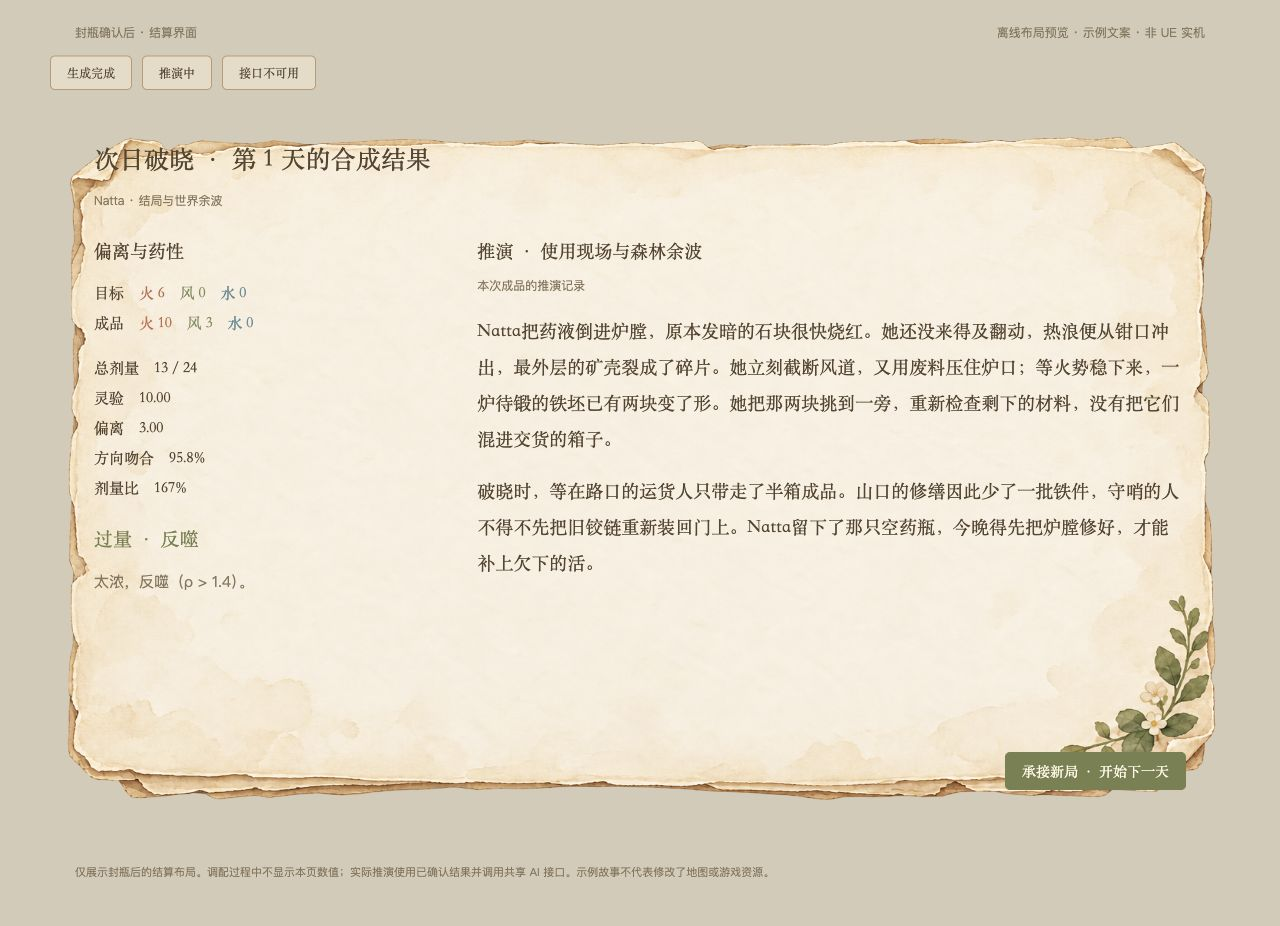
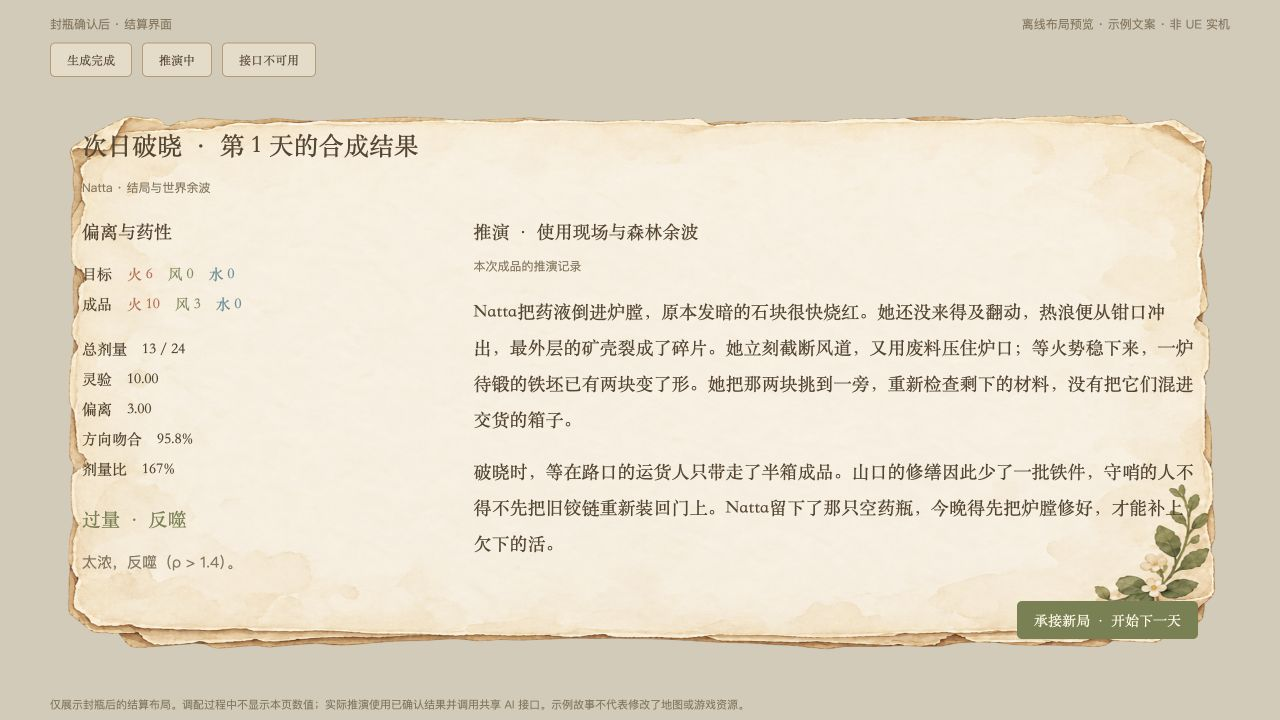
fix: reflow alchemy panels within available viewport

diff --git a/Docs/Daily_Arcana_Brewing_Preview.html b/Docs/Daily_Arcana_Brewing_Preview.html
@@ -1,3 +1,6 @@
 <!doctype html><html lang="zh-CN"><meta charset="utf-8"><meta name="viewport" content="width=device-width,initial-scale=1"><title>今日大牌与夜间合成台</title><style>
 *{box-sizing:border-box}body{margin:0;padding:26px;background:#d5cbb8;color:#57452f;font:15px "Songti SC",serif}main{width:1180px;max-width:100%;margin:auto}.note{font:12px sans-serif;color:#87765b;display:flex;justify-content:space-between;margin:0 25px 15px}.paper{background:url('../Content/UI/Textures/WoodlandPaper.png') center/100% 100%;padding:36px 48px 55px;position:relative}.bag{width:940px;max-width:100%;margin:auto}.title{display:flex;align-items:center;justify-content:space-between}h1{font-size:24px;font-weight:400;margin:0 0 14px}h2{font-size:18px;font-weight:400;margin:0 0 12px}.muted,small{font:12px sans-serif;color:#87765b;line-height:1.8}.btn,button{font:14px "Songti SC",serif;color:#57452f;background:#f4e8d188;border:1px solid #ba9b70;border-radius:5px;padding:8px 16px;cursor:pointer}.primary,.active{background:#77804d;color:#fff7e5;border-color:#77804d}.tabs{display:flex;gap:10px;margin:4px 0 20px}.bagbody{display:grid;grid-template-columns:minmax(0,58fr) minmax(0,42fr);min-height:0;gap:20px;flex:1}.cards{display:flex;gap:10px;align-items:flex-start}.major{width:110px;min-height:160px;padding:12px 8px;text-align:center;border:1px solid #ba9b70;border-radius:6px;background:#f4e8d177}.major.selected{background:#dfe5c888;border-color:#77804d}.major .roman{font-size:28px;color:#77804d;display:block;margin:4px 0 14px}.major b{font-size:17px;font-weight:400;display:block;margin-bottom:9px}.major p{font-size:12px;margin:8px 0;line-height:1.5}.detail{padding:8px 22px;border-left:1px solid #ba9b7044}.detail h2{font-size:25px}.detail p{line-height:1.9}.legend{margin:28px 25px 12px;font:12px sans-serif;color:#87765b}.brew{width:1180px;min-height:730px}.brew .title{margin-bottom:0}.topline{display:flex;gap:10px;margin:14px 0}.rail{display:flex;gap:8px;margin:16px 0 12px;overflow:auto}.slot{width:154px;min-height:120px;border:1px solid #ba9b70;border-radius:5px;padding:10px;background:#f4e8d188;flex-shrink:0}.slot small{display:block;font-size:10px}.slot strong{display:block;font-size:16px;font-weight:400;margin:13px 0 8px}.slot.selected{border-color:#77804d;background:#dfe5c888}.tools{display:flex;gap:8px}.tools button{font-size:12px;padding:6px 14px}.columns{display:grid;grid-template-columns:32% 35% 33%;margin:20px 0;min-height:280px}.column{padding:0 18px 0 0}.column+.column{padding-left:18px;border-left:1px solid #ba9b7044}.choice{width:100%;text-align:left;margin:0 0 8px;line-height:1.5;font-size:13px;padding:9px 12px}.choice small{display:block;font-size:11px}.out p{font-size:13px;line-height:1.9;margin:8px 0}.values{display:flex;gap:14px;margin:12px 0;font-size:17px}.fire{color:#be6c4e}.wind{color:#7d8c58}.water{color:#688e97}.foot{display:flex;gap:12px;align-items:center}.foot small{margin-right:auto}.caption{font:11px sans-serif;line-height:1.8;color:#87765b;margin:20px 25px}.scale{overflow:hidden;position:relative;margin:auto}.scale .paper{position:absolute;top:0;left:0;max-width:none;transform-origin:top left}.bag{height:480px;display:flex;flex-direction:column}.brew{height:780px;display:flex;flex-direction:column}.brew .columns{flex:1;min-height:0}.column{overflow:auto}.brew .rail{min-height:124px}.foot{flex-shrink:0}.badge{background:#e9d9b966;border:1px solid #ba9b7066;padding:5px 12px;border-radius:5px;font-size:12px}
-</style><main><header class="note"><span>背包 · 新增今日大牌栏</span><span>离线布局预览 · 非 UE 实机</span></header><section class="paper bag"><div class="title"><h1>背包</h1><small>B / Esc 关闭</small></div><div class="tabs"><button>元素小物</button><button class="active">今日大牌 · 第1天（3）</button></div><div class="bagbody"><div class="cards"><article class="major selected"><span class="roman">IV</span><b>皇帝</b><p>火 ×2</p><small>额度 1</small></article><article class="major"><span class="roman">XV</span><b>恶魔</b><p>下一项取逆</p><small>额度 1</small></article><article class="major"><span class="roman">XVII</span><b>星</b><p>风 ×2</p><small>额度 1</small></article></div><div class="detail"><h2>IV · 皇帝</h2><div class="muted">今日大牌 · 第1天<br>额度开销：1</div><p>火轴 ×2，逆运算时为 ÷2。</p><p class="muted">只在今日可用。夜晚放入合成台，按排列顺序改变药性。</p></div></div><small>拿起小屋药瓶，每瓶每天可抽取一张大牌。抽牌不经过 AI。</small></section><div class="legend">夜间合成台 · 素材、大牌、调配顺序、委托与结果 · 不显示三维坐标轴</div><section class="paper brew"><div class="title"><h1>夜间合成台 · 第1天</h1><span class="badge">今晚额度　4 / 5</span></div><div class="muted">元素小物相加 · 大牌按顺序变换药性 · 副锅独立调配</div><div class="topline"><button class="primary">Natta · 铁匠</button><button>Fawnia · 传信人</button><button>森林女巫 · 小说家</button></div><div class="rail"><div class="slot"><small>01 · 元素小物</small><strong>炉火纽扣 · 火5</strong><small>投入火元素 5 点 · 免费</small></div><div class="slot selected"><small>02 · 今日大牌</small><strong>IV · 皇帝</strong><small>火 ×2 · 额度 1</small></div><div class="slot"><small>03 · 元素小物</small><strong>没有舌头的铜铃 · 风3</strong><small>投入风元素 3 点 · 免费</small></div></div><div class="tools"><button>← 前移</button><button>后移 →</button><button>移除所选</button><button>清空</button></div><div class="columns"><section class="column"><h2>元素小物 · 来自背包</h2><button class="choice">炉火纽扣 · 火5<small>黄铜边缘始终温热 · 额度0</small></button><button class="choice">没有舌头的铜铃 · 风3<small>风经过时会响起铃音 · 额度0</small></button><button class="choice">装着小雨的瓶子 · 水6<small>瓶壁上滑过刚落下的雨 · 额度0</small></button></section><section class="column"><h2>今日大牌 · 来自药瓶</h2><button class="choice">IV · 皇帝　额度1<small>火轴 ×2，逆为 ÷2</small></button><button class="choice">XV · 恶魔　额度1<small>紧邻的下一项取逆运算</small></button><button class="choice">XVII · 星　额度1<small>风轴 ×2，逆为 ÷2</small></button><div class="muted">下方保留原型的四张通用修饰牌</div></section><section class="column out"><h2>今晚的委托</h2><p>“我要的东西能把那种冷石头喂熟。就要火。别的什么都不要。”</p><p class="muted">目标：火6 · 风0 · 水0<br>调配槽位：3</p><p class="muted">确认封瓶后，另页显示偏离结果与次日推演。</p></section></div><footer class="foot"><small>放入、移除和调序不扣料；封瓶会另做一次确认。</small><button>收起 · Esc</button><button class="primary">封瓶交付</button></footer></section><p class="caption">截图展示两个界面的示例状态，人物、卡牌和数值仅供排版查看，不是游戏存档或运行验收。实际界面由 Slate 实现，均会按可用窗口尺寸缩小。<br>大牌保留卡牌形态；牌面插画尚未加入。夜间面板由与坩埚交互进入，本批未修改天空光照或新增真实时间计时。</p></main><script>for(const p of document.querySelectorAll('.paper')){let h=document.createElement('div');h.className='scale';h.style.maxWidth=(p.classList.contains('bag')?940:1180)+'px';p.before(h);h.append(p)}function fit(){for(const h of document.querySelectorAll('.scale')){const p=h.firstChild,w=p.classList.contains('bag')?940:1180,d=p.classList.contains('bag')?480:780,s=Math.min(1,h.clientWidth/w);p.style.transform='scale('+s+')';h.style.height=d*s+'px'}}new ResizeObserver(fit).observe(document.querySelector('main'));addEventListener('resize',fit);fit()</script></html>
+
+main{width:100%;max-width:1180px}.paper.brew{width:100%;max-width:1180px;height:min(780px,calc(100dvh - 48px));min-height:0;padding:28px 32px}.brew .topline,.brew .tools,.brew .foot{flex-wrap:wrap}.brew .columns{grid-template-columns:minmax(0,32fr) minmax(0,35fr) minmax(0,33fr)}.brew .column{min-width:0}.brew .rail{flex-shrink:0}.brew .title{gap:12px;flex-wrap:wrap}.brew .foot{flex-shrink:0}.brew .title h1{font-size:22px}.brew .foot small{flex-basis:100%}.brew .columns{overflow:auto}.brew .column{overflow:visible}.brew .topline{flex-shrink:0}.brew .tools{flex-shrink:0}
+@media(max-width:931px){.paper.brew{padding:16px 18px}.brew .columns{display:block}.brew .column{border:0;padding:0;margin:0 0 18px}.brew .columns .out{order:-1}.brew .title h1{font-size:18px}}
+.brew-scroll{flex:1;min-height:0;overflow:auto}.brew .columns{flex:none;overflow:visible}.brew .foot{margin-top:10px}</style><main><header class="note"><span>背包 · 新增今日大牌栏</span><span>离线布局预览 · 非 UE 实机</span></header><section class="paper bag"><div class="title"><h1>背包</h1><small>B / Esc 关闭</small></div><div class="tabs"><button>元素小物</button><button class="active">今日大牌 · 第1天（3）</button></div><div class="bagbody"><div class="cards"><article class="major selected"><span class="roman">IV</span><b>皇帝</b><p>火 ×2</p><small>额度 1</small></article><article class="major"><span class="roman">XV</span><b>恶魔</b><p>下一项取逆</p><small>额度 1</small></article><article class="major"><span class="roman">XVII</span><b>星</b><p>风 ×2</p><small>额度 1</small></article></div><div class="detail"><h2>IV · 皇帝</h2><div class="muted">今日大牌 · 第1天<br>额度开销：1</div><p>火轴 ×2，逆运算时为 ÷2。</p><p class="muted">只在今日可用。夜晚放入合成台，按排列顺序改变药性。</p></div></div><small>拿起小屋药瓶，每瓶每天可抽取一张大牌。抽牌不经过 AI。</small></section><div class="legend">夜间合成台 · 素材、大牌、调配顺序、委托与结果 · 不显示三维坐标轴</div><section class="paper brew"><div class="title"><h1>夜间合成台 · 第1天</h1><span class="badge">今晚额度　4 / 5</span></div><div class="brew-scroll"><div class="muted">元素小物相加 · 大牌按顺序变换药性 · 副锅独立调配</div><div class="topline"><button class="primary">Natta · 铁匠</button><button>Fawnia · 传信人</button><button>森林女巫 · 小说家</button></div><div class="rail"><div class="slot"><small>01 · 元素小物</small><strong>炉火纽扣 · 火5</strong><small>投入火元素 5 点 · 免费</small></div><div class="slot selected"><small>02 · 今日大牌</small><strong>IV · 皇帝</strong><small>火 ×2 · 额度 1</small></div><div class="slot"><small>03 · 元素小物</small><strong>没有舌头的铜铃 · 风3</strong><small>投入风元素 3 点 · 免费</small></div></div><div class="tools"><button>← 前移</button><button>后移 →</button><button>移除所选</button><button>清空</button></div><div class="columns"><section class="column"><h2>元素小物 · 来自背包</h2><button class="choice">炉火纽扣 · 火5<small>黄铜边缘始终温热 · 额度0</small></button><button class="choice">没有舌头的铜铃 · 风3<small>风经过时会响起铃音 · 额度0</small></button><button class="choice">装着小雨的瓶子 · 水6<small>瓶壁上滑过刚落下的雨 · 额度0</small></button></section><section class="column"><h2>今日大牌 · 来自药瓶</h2><button class="choice">IV · 皇帝　额度1<small>火轴 ×2，逆为 ÷2</small></button><button class="choice">XV · 恶魔　额度1<small>紧邻的下一项取逆运算</small></button><button class="choice">XVII · 星　额度1<small>风轴 ×2，逆为 ÷2</small></button><div class="muted">下方保留原型的四张通用修饰牌</div></section><section class="column out"><h2>今晚的委托</h2><p>“我要的东西能把那种冷石头喂熟。就要火。别的什么都不要。”</p><p class="muted">目标：火6 · 风0 · 水0<br>调配槽位：3</p><p class="muted">确认封瓶后，另页显示偏离结果与次日推演。</p></section></div></div><footer class="foot"><small>放入、移除和调序不扣料；封瓶会另做一次确认。</small><button>收起 · Esc</button><button class="primary">封瓶交付</button></footer></section><p class="caption">截图展示两个界面的示例状态，人物、卡牌和数值仅供排版查看，不是游戏存档或运行验收。实际界面由 Slate 实现，均会按可用窗口尺寸缩小。<br>大牌保留卡牌形态；牌面插画尚未加入。夜间面板由与坩埚交互进入，本批未修改天空光照或新增真实时间计时。</p></main><script>for(const p of document.querySelectorAll('.paper.bag')){let h=document.createElement('div');h.className='scale';h.style.maxWidth=(p.classList.contains('bag')?940:1180)+'px';p.before(h);h.append(p)}function fit(){for(const h of document.querySelectorAll('.scale')){const p=h.firstChild,w=p.classList.contains('bag')?940:1180,d=p.classList.contains('bag')?480:780,s=Math.min(1,h.clientWidth/w);p.style.transform='scale('+s+')';h.style.height=d*s+'px'}}new ResizeObserver(fit).observe(document.querySelector('main'));addEventListener('resize',fit);fit()</script></html>

diff --git a/Docs/Brew_Result_Preview.html b/Docs/Brew_Result_Preview.html
@@ -2,4 +2,8 @@
 *{box-sizing:border-box}body{margin:0;padding:26px;background:#d5cbb8;color:#57452f;font:15px "Songti SC",serif}main{width:1180px;max-width:100%;margin:auto}.note{font:12px sans-serif;color:#87765b;display:flex;justify-content:space-between;margin:0 25px 15px}.paper{background:url('../Content/UI/Textures/WoodlandPaper.png') center/100% 100%;padding:36px 48px 55px;position:relative}.bag{width:940px;max-width:100%;margin:auto}.title{display:flex;align-items:center;justify-content:space-between}h1{font-size:24px;font-weight:400;margin:0 0 14px}h2{font-size:18px;font-weight:400;margin:0 0 12px}.muted,small{font:12px sans-serif;color:#87765b;line-height:1.8}.btn,button{font:14px "Songti SC",serif;color:#57452f;background:#f4e8d188;border:1px solid #ba9b70;border-radius:5px;padding:8px 16px;cursor:pointer}.primary,.active{background:#77804d;color:#fff7e5;border-color:#77804d}.tabs{display:flex;gap:10px;margin:4px 0 20px}.bagbody{display:grid;grid-template-columns:minmax(0,58fr) minmax(0,42fr);min-height:0;gap:20px;flex:1}.cards{display:flex;gap:10px;align-items:flex-start}.major{width:110px;min-height:160px;padding:12px 8px;text-align:center;border:1px solid #ba9b70;border-radius:6px;background:#f4e8d177}.major.selected{background:#dfe5c888;border-color:#77804d}.major .roman{font-size:28px;color:#77804d;display:block;margin:4px 0 14px}.major b{font-size:17px;font-weight:400;display:block;margin-bottom:9px}.major p{font-size:12px;margin:8px 0;line-height:1.5}.detail{padding:8px 22px;border-left:1px solid #ba9b7044}.detail h2{font-size:25px}.detail p{line-height:1.9}.legend{margin:28px 25px 12px;font:12px sans-serif;color:#87765b}.brew{width:1180px;min-height:730px}.brew .title{margin-bottom:0}.topline{display:flex;gap:10px;margin:14px 0}.rail{display:flex;gap:8px;margin:16px 0 12px;overflow:auto}.slot{width:154px;min-height:120px;border:1px solid #ba9b70;border-radius:5px;padding:10px;background:#f4e8d188;flex-shrink:0}.slot small{display:block;font-size:10px}.slot strong{display:block;font-size:16px;font-weight:400;margin:13px 0 8px}.slot.selected{border-color:#77804d;background:#dfe5c888}.tools{display:flex;gap:8px}.tools button{font-size:12px;padding:6px 14px}.columns{display:grid;grid-template-columns:32% 35% 33%;margin:20px 0;min-height:280px}.column{padding:0 18px 0 0}.column+.column{padding-left:18px;border-left:1px solid #ba9b7044}.choice{width:100%;text-align:left;margin:0 0 8px;line-height:1.5;font-size:13px;padding:9px 12px}.choice small{display:block;font-size:11px}.out p{font-size:13px;line-height:1.9;margin:8px 0}.values{display:flex;gap:14px;margin:12px 0;font-size:17px}.fire{color:#be6c4e}.wind{color:#7d8c58}.water{color:#688e97}.foot{display:flex;gap:12px;align-items:center}.foot small{margin-right:auto}.caption{font:11px sans-serif;line-height:1.8;color:#87765b;margin:20px 25px}.scale{overflow:hidden;position:relative;margin:auto}.scale .paper{position:absolute;top:0;left:0;max-width:none;transform-origin:top left}.bag{height:480px;display:flex;flex-direction:column}.brew{height:780px;display:flex;flex-direction:column}.brew .columns{flex:1;min-height:0}.column{overflow:auto}.brew .rail{min-height:124px}.foot{flex-shrink:0}.badge{background:#e9d9b966;border:1px solid #ba9b7066;padding:5px 12px;border-radius:5px;font-size:12px}
 
 body{padding:24px}.paper.result{width:1180px;height:740px;display:flex;flex-direction:column;padding:38px 44px 52px}.result-body{display:grid;grid-template-columns:34% 66%;gap:0;flex:1;min-height:0;margin-top:26px}.scores{padding-right:32px;overflow:auto}.story{padding-left:12px;overflow:auto}.story p{font-size:18px;line-height:2;margin:16px 0}.scores p{font-size:15px;line-height:2}.verdict{font-size:19px;color:#77804d;margin-top:22px}.result footer{margin-top:20px;display:flex;justify-content:flex-end}h1{font-size:25px}.stage{display:flex;gap:10px;margin-bottom:12px}.stage button{font-size:12px}.story .muted{font-size:12px}.result .title{display:block}
-</style><main><header class="note"><span>封瓶确认后 · 结算界面</span><span>离线布局预览 · 示例文案 · 非 UE 实机</span></header><div class="stage"><button onclick="show('ready')">生成完成</button><button onclick="show('loading')">推演中</button><button onclick="show('fallback')">接口不可用</button></div><div class="scale" id="holder"><section class="paper result" id="page"><div class="title"><h1>次日破晓 · 第 1 天的合成结果</h1><span class="muted">Natta · 结局与世界余波</span></div><div class="result-body"><section class="scores"><h2>偏离与药性</h2><p>目标　<span class="fire">火 6</span>　<span class="wind">风 0</span>　<span class="water">水 0</span><br>成品　<span class="fire">火 10</span>　<span class="wind">风 3</span>　<span class="water">水 0</span></p><p>总剂量　13 / 24<br>灵验　10.00<br>偏离　3.00<br>方向吻合　95.8%<br>剂量比　167%</p><div class="verdict">过量 · 反噬</div><p class="muted">太浓，反噬（ρ &gt; 1.4）。</p></section><section class="story"><h2>推演 · 使用现场与森林余波</h2><div id="state" class="muted">本次成品的推演记录</div><div id="narrative"><p>Natta把药液倒进炉膛，原本发暗的石块很快烧红。她还没来得及翻动，热浪便从钳口冲出，最外层的矿壳裂成了碎片。她立刻截断风道，又用废料压住炉口；等火势稳下来，一炉待锻的铁坯已有两块变了形。她把那两块挑到一旁，重新检查剩下的材料，没有把它们混进交货的箱子。</p><p>破晓时，等在路口的运货人只带走了半箱成品。山口的修缮因此少了一批铁件，守哨的人不得不先把旧铰链重新装回门上。Natta留下了那只空药瓶，今晚得先把炉膛修好，才能补上欠下的活。</p></div></section></div><footer><button class="primary" id="next" onclick="document.getElementById('state').textContent='离线预览到此结束；游戏会在确认后换天。'">承接新局 · 开始下一天</button></footer></section></div><p class="caption">仅展示封瓶后的结算布局。调配过程中不显示本页数值；实际推演使用已确认结果并调用共享 AI 接口。示例故事不代表修改了地图或游戏资源。</p></main><script>const initial=document.getElementById('narrative').innerHTML;function show(s){document.getElementById('next').disabled=s==='loading';document.getElementById('state').textContent=s==='ready'?'本次成品的推演记录':s==='loading'?'正在依据本次成品推演……':'推演暂不可用 · 以下为本地结算记录';document.getElementById('narrative').innerHTML=s==='ready'?initial:s==='loading'?'<p>瓶口的封蜡渐渐冷却。林间尚未传回消息。愿望能否实现，取决于这一锅里真正留下的药性。</p>':'<p>【物理结算记录】评级为【过量 · 反噬】，灵验度 10.00，偏离 3.00，剂量比 167%。太浓，反噬。</p><p>客人的身影消失在夜色深处。次日晨曦升起时，森林里的暗流依旧无声蔓延。</p>'}function fit(){let s=Math.min(1,document.getElementById('holder').clientWidth/1180);document.getElementById('page').style.transform='scale('+s+')';document.getElementById('holder').style.height=740*s+'px'}new ResizeObserver(fit).observe(document.querySelector('main'));fit();</script></html>
+
+/* Flow layout: viewport size changes the frame, not the font scale. */
+body{padding:16px}main{width:100%;max-width:1180px}.note{margin:0 0 10px;gap:12px;flex-wrap:wrap}.stage{flex-wrap:wrap;margin-bottom:10px}.scale{overflow:visible;width:100%}.scale .paper.result{position:relative;transform:none!important;width:100%;max-width:1180px;height:min(740px,calc(100dvh - 124px));padding:40px 32px 44px;min-height:0}.result-body{grid-template-columns:minmax(0,34fr) minmax(0,66fr);min-height:0;margin-top:20px}.scores,.story{min-width:0}.result footer{flex-shrink:0;margin-top:14px}.result .title{flex-shrink:0}.result .title h1{overflow-wrap:anywhere}.caption{margin:12px 0}.story p{font-size:18px}.result h2{font-size:18px}button:disabled{opacity:.55}
+@media(max-width:931px){.scale .paper.result{padding:32px 18px 36px}.result-body{display:block;overflow:auto}.scores,.story{overflow:visible;padding:0}.story{margin-top:22px}.result h1{font-size:23px}.story p{font-size:18px}.result footer button{max-width:100%;white-space:normal}.result .title .muted{display:block}.scores p{font-size:15px}}
+</style><main><header class="note"><span>封瓶确认后 · 结算界面</span><span>离线布局预览 · 示例文案 · 非 UE 实机</span></header><div class="stage"><button onclick="show('ready')">生成完成</button><button onclick="show('loading')">推演中</button><button onclick="show('fallback')">接口不可用</button></div><div class="scale" id="holder"><section class="paper result" id="page"><div class="title"><h1>次日破晓 · 第 1 天的合成结果</h1><span class="muted">Natta · 结局与世界余波</span></div><div class="result-body"><section class="scores"><h2>偏离与药性</h2><p>目标　<span class="fire">火 6</span>　<span class="wind">风 0</span>　<span class="water">水 0</span><br>成品　<span class="fire">火 10</span>　<span class="wind">风 3</span>　<span class="water">水 0</span></p><p>总剂量　13 / 24<br>灵验　10.00<br>偏离　3.00<br>方向吻合　95.8%<br>剂量比　167%</p><div class="verdict">过量 · 反噬</div><p class="muted">太浓，反噬（ρ &gt; 1.4）。</p></section><section class="story"><h2>推演 · 使用现场与森林余波</h2><div id="state" class="muted">本次成品的推演记录</div><div id="narrative"><p>Natta把药液倒进炉膛，原本发暗的石块很快烧红。她还没来得及翻动，热浪便从钳口冲出，最外层的矿壳裂成了碎片。她立刻截断风道，又用废料压住炉口；等火势稳下来，一炉待锻的铁坯已有两块变了形。她把那两块挑到一旁，重新检查剩下的材料，没有把它们混进交货的箱子。</p><p>破晓时，等在路口的运货人只带走了半箱成品。山口的修缮因此少了一批铁件，守哨的人不得不先把旧铰链重新装回门上。Natta留下了那只空药瓶，今晚得先把炉膛修好，才能补上欠下的活。</p></div></section></div><footer><button class="primary" id="next" onclick="document.getElementById('state').textContent='离线预览到此结束；游戏会在确认后换天。'">承接新局 · 开始下一天</button></footer></section></div><p class="caption">仅展示封瓶后的结算布局。调配过程中不显示本页数值；实际推演使用已确认结果并调用共享 AI 接口。示例故事不代表修改了地图或游戏资源。</p></main><script>const initial=document.getElementById('narrative').innerHTML;function show(s){document.getElementById('next').disabled=s==='loading';document.getElementById('state').textContent=s==='ready'?'本次成品的推演记录':s==='loading'?'正在依据本次成品推演……':'推演暂不可用 · 以下为本地结算记录';document.getElementById('narrative').innerHTML=s==='ready'?initial:s==='loading'?'<p>瓶口的封蜡渐渐冷却。林间尚未传回消息。愿望能否实现，取决于这一锅里真正留下的药性。</p>':'<p>【物理结算记录】评级为【过量 · 反噬】，灵验度 10.00，偏离 3.00，剂量比 167%。太浓，反噬。</p><p>客人的身影消失在夜色深处。次日晨曦升起时，森林里的暗流依旧无声蔓延。</p>'}</script></html>

diff --git a/Source/demo3_UE58/ForestAlchemyUI.cpp b/Source/demo3_UE58/ForestAlchemyUI.cpp
@@ -5,7 +5,7 @@
 #include "Widgets/Layout/SBox.h"
 #include "Widgets/Layout/SBorder.h"
 #include "Widgets/Layout/SScrollBox.h"
-#include "Widgets/Layout/SScaleBox.h"
+#include "Widgets/Layout/SWrapBox.h"
 #include "Widgets/Text/STextBlock.h"
 #include "Widgets/Input/SButton.h"
 #include "InputCoreTypes.h"
@@ -21,11 +21,24 @@ TSharedRef<SWidget> UForestArcanaNotice::RebuildWidget()
 }
 TSharedRef<SWidget> UForestBrewWidget::RebuildWidget()
 {
- SetIsFocusable(true);return SNew(SOverlay)+SOverlay::Slot().Padding(FMargin(24))
-  [SNew(SScaleBox).Stretch(EStretch::ScaleToFit).StretchDirection(EStretchDirection::DownOnly)
-   [SNew(SBox).WidthOverride(1180).HeightOverride(740)
-    [SNew(SForestPaperBorder).Padding(FMargin(42,32,42,52))[SAssignNew(Body,SVerticalBox)]]]];
+ SetIsFocusable(true);return SNew(SOverlay)+SOverlay::Slot().HAlign(HAlign_Center).VAlign(VAlign_Center)
+  [SAssignNew(Frame,SBox).WidthOverride(1180).HeightOverride(740)
+   [SAssignNew(Paper,SForestPaperBorder).Padding(FMargin(32,40,32,44))[SAssignNew(Body,SVerticalBox)]]];
 }
+void UForestBrewWidget::NativeTick(const FGeometry& Geometry,float DeltaTime)
+{
+ Super::NativeTick(Geometry,DeltaTime);
+ if(!Frame.IsValid())return;
+ // Geometry is already in Slate units after DPI: never mix it with physical display pixels.
+ const FVector2D Available=Geometry.GetLocalSize();if(Available.X<=0 || Available.Y<=0)return;
+ const float Width=FMath::Max(1.f,FMath::Min(1180.f,static_cast<float>(Available.X)-32.f));
+ const float Height=FMath::Max(1.f,FMath::Min(740.f,static_cast<float>(Available.Y)-32.f));
+ Frame->SetWidthOverride(Width);Frame->SetHeightOverride(Height);
+ const bool Compact=Width<900.f;
+ Paper->SetPadding(Compact?FMargin(18,32,18,36):FMargin(32,40,32,44));
+ if(bCompact!=Compact){bCompact=Compact;Refresh();}
+}
+
 void UForestBrewWidget::Refresh()
 {
  if(!Body.IsValid() || !Owner.IsValid())return;Body->ClearChildren();auto* A=Owner.Get();int32 Cost=0;for(const auto& C:A->Sequence)Cost+=C.Card.Cost;
@@ -41,7 +54,9 @@ void UForestBrewWidget::Refresh()
   Story->AddSlot().AutoHeight()[BrewUI::Text(TEXT("推演 · 使用现场与森林余波"),18)];
   Story->AddSlot().AutoHeight().Padding(0,12)[BrewUI::Text(A->bNarrativePending?TEXT("正在依据本次成品推演……"):R->bNarrativeFallback?TEXT("推演暂不可用 · 以下为本地结算记录"):TEXT("本次成品的推演记录"),10)];
   Story->AddSlot().AutoHeight().Padding(0,10)[BrewUI::Text(A->bNarrativePending?TEXT("瓶口的封蜡渐渐冷却。林间尚未传回消息。愿望能否实现，取决于这一锅里真正留下的药性。"):R->Narrative,16)];
-  Body->AddSlot().FillHeight(1)[SNew(SHorizontalBox)
+  if(bCompact)Body->AddSlot().FillHeight(1)[SNew(SScrollBox).ScrollBarAlwaysVisible(true)
+   +SScrollBox::Slot()[Scores]+SScrollBox::Slot().Padding(0,22,0,0)[Story]];
+  else Body->AddSlot().FillHeight(1)[SNew(SHorizontalBox)
    +SHorizontalBox::Slot().FillWidth(.34f).Padding(0,0,32,0)[SNew(SScrollBox)+SScrollBox::Slot()[Scores]]
    +SHorizontalBox::Slot().FillWidth(.66f)[SNew(SScrollBox)+SScrollBox::Slot()[Story]]];
   Body->AddSlot().AutoHeight().Padding(0,14)[BrewUI::Text(A->Status,10)];
@@ -49,16 +64,17 @@ void UForestBrewWidget::Refresh()
    [BrewUI::Button(TEXT("承接新局 · 开始下一天"),FOnClicked::CreateLambda([this](){if(Owner.IsValid())Owner->FinishResult();return FReply::Handled();}),true)]];
   return;
  }
+ auto Draft=SNew(SVerticalBox);
  FAlchemyCommissionDefinition Comm;const bool HasCommission=A->CurrentCommission(Comm);
- Body->AddSlot().AutoHeight()[BrewUI::Text(FString::Printf(TEXT("夜间合成台 · 第 %d 天                 今晚额度 %d / 5"),A->GetDay(),5-Cost),21)];
- Body->AddSlot().AutoHeight().Padding(0,8)[BrewUI::Text(TEXT("元素小物相加 · 大牌按顺序变换药性 · 副锅独立调配 · 点击槽位可移除或调整顺序"),10)];
- auto Customers=SNew(SHorizontalBox);
+ Body->AddSlot().AutoHeight()[BrewUI::Text(FString::Printf(TEXT("夜间合成台 · 第 %d 天                 今晚额度 %d / 5"),A->GetDay(),5-Cost),bCompact?16:21)];
+ Draft->AddSlot().AutoHeight().Padding(0,8)[BrewUI::Text(TEXT("元素小物相加 · 大牌按顺序变换药性 · 副锅独立调配 · 点击槽位可移除或调整顺序"),10)];
+ auto Customers=SNew(SWrapBox).UseAllottedSize(true).InnerSlotPadding(FVector2D(8,6));
  for(const auto& C:A->Commissions())
  {
   const FString Name=C.CharacterId==TEXT("blacksmith")?TEXT("Natta · 铁匠"):C.CharacterId==TEXT("operator")?TEXT("Fawnia · 传信人"):TEXT("森林女巫 · 小说家");
-  Customers->AddSlot().AutoWidth().Padding(0,0,10,0)[BrewUI::Button(Name,FOnClicked::CreateLambda([this,C](){if(Owner.IsValid())Owner->ChooseCommission(C.OrderIndex);return FReply::Handled();}),HasCommission && C.OrderIndex==Comm.OrderIndex)];
+  Customers->AddSlot()[BrewUI::Button(Name,FOnClicked::CreateLambda([this,C](){if(Owner.IsValid())Owner->ChooseCommission(C.OrderIndex);return FReply::Handled();}),HasCommission && C.OrderIndex==Comm.OrderIndex)];
  }
- Body->AddSlot().AutoHeight().Padding(0,5)[Customers];
+ Draft->AddSlot().AutoHeight().Padding(0,5)[Customers];
  auto Slots=SNew(SHorizontalBox);
  for(int32 I=0;I<(HasCommission?Comm.SlotCount:3);++I)
  {
@@ -68,12 +84,12 @@ void UForestBrewWidget::Refresh()
     .OnClicked_Lambda([this,I](){if(Owner.IsValid()){Owner->SelectedSlot=I;Owner->RefreshUI();}return FReply::Handled();})
     [SNew(SScrollBox)+SScrollBox::Slot()[BrewUI::Text(Label,10)]]]];
  }
- Body->AddSlot().AutoHeight().Padding(0,8)[SNew(SBox).HeightOverride(150)[SNew(SScrollBox).Orientation(Orient_Horizontal)+SScrollBox::Slot()[Slots]]];
- auto Tools=SNew(SHorizontalBox);
- Tools->AddSlot().AutoWidth().Padding(0,0,6,0)[BrewUI::Button(TEXT("← 前移"),FOnClicked::CreateLambda([this](){if(Owner.IsValid())Owner->MoveSlot(-1);return FReply::Handled();}))];
- Tools->AddSlot().AutoWidth().Padding(0,0,6,0)[BrewUI::Button(TEXT("后移 →"),FOnClicked::CreateLambda([this](){if(Owner.IsValid())Owner->MoveSlot(1);return FReply::Handled();}))];
- Tools->AddSlot().AutoWidth().Padding(0,0,6,0)[BrewUI::Button(TEXT("移除所选"),FOnClicked::CreateLambda([this](){if(Owner.IsValid())Owner->RemoveSlot();return FReply::Handled();}))];
- Tools->AddSlot().AutoWidth()[BrewUI::Button(TEXT("清空"),FOnClicked::CreateLambda([this](){if(Owner.IsValid())Owner->ClearSequence();return FReply::Handled();}))];Body->AddSlot().AutoHeight()[Tools];
+ Draft->AddSlot().AutoHeight().Padding(0,8)[SNew(SBox).HeightOverride(150)[SNew(SScrollBox).Orientation(Orient_Horizontal)+SScrollBox::Slot()[Slots]]];
+ auto Tools=SNew(SWrapBox).UseAllottedSize(true).InnerSlotPadding(FVector2D(6,6));
+ Tools->AddSlot()[BrewUI::Button(TEXT("← 前移"),FOnClicked::CreateLambda([this](){if(Owner.IsValid())Owner->MoveSlot(-1);return FReply::Handled();}))];
+ Tools->AddSlot()[BrewUI::Button(TEXT("后移 →"),FOnClicked::CreateLambda([this](){if(Owner.IsValid())Owner->MoveSlot(1);return FReply::Handled();}))];
+ Tools->AddSlot()[BrewUI::Button(TEXT("移除所选"),FOnClicked::CreateLambda([this](){if(Owner.IsValid())Owner->RemoveSlot();return FReply::Handled();}))];
+ Tools->AddSlot()[BrewUI::Button(TEXT("清空"),FOnClicked::CreateLambda([this](){if(Owner.IsValid())Owner->ClearSequence();return FReply::Handled();}))];Draft->AddSlot().AutoHeight()[Tools];
  auto Materials=SNew(SVerticalBox);auto Majors=SNew(SVerticalBox);auto Result=SNew(SVerticalBox);
  Materials->AddSlot().AutoHeight().Padding(0,0,0,8)[BrewUI::Text(TEXT("元素小物 · 来自背包"),16)];
  Majors->AddSlot().AutoHeight().Padding(0,0,0,8)[BrewUI::Text(TEXT("今日大牌 · 来自药瓶"),16)];
@@ -91,15 +107,26 @@ void UForestBrewWidget::Refresh()
  Result->AddSlot().AutoHeight()[BrewUI::Text(TEXT("今晚的委托"),16)];
  if(HasCommission)Result->AddSlot().AutoHeight().Padding(0,10)[BrewUI::Text(Comm.Wish+TEXT("\n\n")+Comm.ElementRequest+FString::Printf(TEXT("\n槽位 %d · %s"),Comm.SlotCount,Comm.bMustUseAll?TEXT("指定用料需全部使用"):TEXT("可自行选料")),12)];
  else Result->AddSlot().AutoHeight().Padding(0,10)[BrewUI::Text(TEXT("请先选择今晚的委托对象。"))];
- Body->AddSlot().FillHeight(1).Padding(0,14)
-  [SNew(SHorizontalBox)
-   +SHorizontalBox::Slot().FillWidth(.32f).Padding(0,0,16,0)[SNew(SScrollBox)+SScrollBox::Slot()[Materials]]
-   +SHorizontalBox::Slot().FillWidth(.35f).Padding(0,0,16,0)[SNew(SScrollBox)+SScrollBox::Slot()[Majors]]
-   +SHorizontalBox::Slot().FillWidth(.33f)[SNew(SScrollBox)+SScrollBox::Slot()[Result]]];
+ if(bCompact)
+ {
+  Draft->AddSlot().AutoHeight().Padding(0,14)[Result];
+  Draft->AddSlot().AutoHeight().Padding(0,8)[Materials];
+  Draft->AddSlot().AutoHeight().Padding(0,14)[Majors];
+  Body->AddSlot().FillHeight(1).Padding(0,8)[SNew(SScrollBox).ScrollBarAlwaysVisible(true)+SScrollBox::Slot()[Draft]];
+ }
+ else
+ {
+  // The whole draft scrolls when the viewport is short; the action footer stays outside.
+  Draft->AddSlot().AutoHeight().Padding(0,14)[SNew(SHorizontalBox)
+   +SHorizontalBox::Slot().FillWidth(.32f).Padding(0,0,16,0)[Materials]
+   +SHorizontalBox::Slot().FillWidth(.35f).Padding(0,0,16,0)[Majors]
+   +SHorizontalBox::Slot().FillWidth(.33f)[Result]];
+  Body->AddSlot().FillHeight(1).Padding(0,8)[SNew(SScrollBox).ScrollBarAlwaysVisible(true)+SScrollBox::Slot()[Draft]];
+ }
  Body->AddSlot().AutoHeight().Padding(0,0,0,8)[BrewUI::Text(A->Status,10)];
  Body->AddSlot().AutoHeight()
-  [SNew(SHorizontalBox)
-   +SHorizontalBox::Slot().AutoWidth().Padding(0,0,10,0)[BrewUI::Button(TEXT("收起 · Esc"),FOnClicked::CreateLambda([this](){if(Owner.IsValid())Owner->CloseWorkbench();return FReply::Handled();}))]
-   +SHorizontalBox::Slot().AutoWidth()[BrewUI::Button(A->bConfirming?TEXT("确认封瓶"):TEXT("封瓶交付"),FOnClicked::CreateLambda([this](){if(Owner.IsValid())Owner->ConfirmBrew();return FReply::Handled();}),true)]];
+  [SNew(SWrapBox).UseAllottedSize(true).InnerSlotPadding(FVector2D(8,6))
+   +SWrapBox::Slot()[BrewUI::Button(TEXT("收起 · Esc"),FOnClicked::CreateLambda([this](){if(Owner.IsValid())Owner->CloseWorkbench();return FReply::Handled();}))]
+   +SWrapBox::Slot()[BrewUI::Button(A->bConfirming?TEXT("确认封瓶"):TEXT("封瓶交付"),FOnClicked::CreateLambda([this](){if(Owner.IsValid())Owner->ConfirmBrew();return FReply::Handled();}),true)]];
 }
 FReply UForestBrewWidget::NativeOnPreviewKeyDown(const FGeometry& G,const FKeyEvent& E){if(E.GetKey()==EKeys::Escape){if(Owner.IsValid() && !Owner->PendingResult())Owner->CloseWorkbench();return FReply::Handled();}return Super::NativeOnPreviewKeyDown(G,E);}

diff --git a/Source/demo3_UE58/ForestAlchemy.h b/Source/demo3_UE58/ForestAlchemy.h
@@ -6,7 +6,7 @@
 #include "AlchemyGameplayTypes.h"
 #include "ForestAlchemy.generated.h"
 class UInputComponent;class APlayerController;class UStaticMeshComponent;class UForestAlchemy;
-class STextBlock;class SVerticalBox;
+class STextBlock;class SVerticalBox;class SBox;class SBorder;
 
 /** Future restrictions are data, not an LLM decision. Empty allowlists mean unrestricted. */
 UCLASS(Config=ForestAlchemy,DefaultConfig)
@@ -69,9 +69,13 @@ public:
  void Refresh();
 protected:
  virtual TSharedRef<SWidget> RebuildWidget() override;
+ virtual void NativeTick(const FGeometry&,float) override;
  virtual FReply NativeOnPreviewKeyDown(const FGeometry&,const FKeyEvent&) override;
 private:
  TSharedPtr<SVerticalBox> Body;
+ TSharedPtr<SBox> Frame;
+ TSharedPtr<SBorder> Paper;
+ bool bCompact=false;
 };
 UCLASS()
 class DEMO3_UE58_API UForestArcanaNotice : public UUserWidget

diff --git a/Docs/Brew_Result_2026-10-27.md b/Docs/Brew_Result_2026-10-27.md
@@ -44,3 +44,13 @@ Docs/Brew_Result_Preview.html及.jpg为新结算离线预览；Daily_Arcana_Brew
 - 源码路径审查：完整输入校验先于派发；请求使用冻结提示；失败/超时都写本地结算；对象+成品编号拒绝迟到回复；销毁解绑Owner；推进只在玩家继续时调用。
 - 评级分支静态审查：magnum_opus精准成功；side_effect具体副作用；under_dosed愿望未解决；over_dosed/reversed_effect失控或相反后果；caput_mortuum/empty_bottle/contract_breach不可用或拒收；deliverable普通满足。未调用真实AI逐项生成验收。
 - 仍需游戏内验收：点击/焦点/DPI、真实AI返回、45秒超时、世界销毁中请求回调、退出恢复、保存故障重试、重复点击不扣料/不重复换天。离线预览和源码审查不等同于这些运行测试。
+
+## 2026-10-27 自适应修正（批次05）
+
+替代上述固定1180×740整页缩放策略：合成台和结算页通过NativeTick读取UUserWidget分配后的Slate逻辑宽高，四周留16单位，最大1180×740。直接调整纸页面板宽高，不按物理屏幕像素推算，也不整体缩小正文。低于900逻辑宽度时，调配材料/大牌/委托纵向排列，结果与故事也纵向排列；其余宽度维持多栏。NPC选择、工具、操作按钮使用SWrapBox换行。调配内容整体滚动，底部操作固定在滚动区外；结算窄版整体滚动，宽版两栏独立滚动。
+
+窗口跨布局阈值时重新排列，保留Owner内的选料、选中槽、确认状态、结果与推演请求，不触发扣料或换天；不会每帧重建内容。阈值切换会重置滚动位置，卡槽仍通过原水平滚动查看。状态提示、标题自然换行，纸边增加内边距。
+
+离线HTML同步取消合成/结算整页缩放。结算预览在800×600、1280×360、360×640、1280×720下均实测：继续按钮在视口内、页面无横向越界；800宽采用纵向滚动。截图Brew_Result_Preview.jpg更新，新增Brew_Result_Adaptive_800.jpg。预览有演示控件额外占用高度，与实际游戏可用区域不同，不替代Slate运行验收。
+
+本次Mac UE5.8 Development Editor UHT、源码编译、链接成功；完整工程与增量两份源码一致、差异检查通过。未启动UE/PIE，原生DPI、多屏、输入焦点/滚轮、极小窗口与运行中切换仍待实机验收。本次只修合成台和结算页，背包、NPC寻找/对话等界面没有一并重构。

diff --git a/CHANGELOG.md b/CHANGELOG.md
@@ -2,6 +2,17 @@
 
 本文件记录增量仓库每次提交上传的内容。最新更新放在最前面；每次上传前必须把本条记录与对应文件一起提交。验证状态应区分“本次验证”“历史记录”与“未验证”。
 
+## 2026-10-27-05：修复合成台与结算页窗口自适应
+
+- **目的 / 基线 / 前置**：修复固定画布整体缩放和预览只按宽度缩放；基于main `e8c05e8`，前置2026-10-27-03/04。
+- **修改**：Source/demo3_UE58/ForestAlchemy.h、ForestAlchemyUI.cpp；Docs/Brew_Result_Preview.html、Brew_Result_Preview.jpg、Daily_Arcana_Brewing_Preview.html、Brew_Result_2026-10-27.md；本记录。
+- **新增**：Docs/Brew_Result_Adaptive_800.jpg（离线窄窗截图）。
+- **行为**：按实际Slate逻辑宽高调整页面，保留正文大小；低于900宽度纵向重排，选择/工具/操作按钮可换行；内容滚动、底部按钮独立保留。布局变化不重置选料/确认/AI请求。不修改其他界面。
+- **依赖 / 应用**：合并两份源码并编译，沿用纸页主题及PNG，无资产/配置/存档变更。详见原接入说明追加的自适应修正节。
+- **验证**：本次Mac UE5.8 UHT、源码编译和链接成功；两份源码同步、差异检查；离线结算预览四尺寸均无横向越界、继续按钮均在视口内，保存800/1280宽截图。
+- **未验证**：未打开UE/PIE；原生DPI、多屏、实际输入/滚动/缩放仍需运行验收；截图为HTML，非Slate实机。布局阈值切换会重置滚动位置。
+- **上传状态**：待上传，远程核对后补记。
+
 ## 2026-10-27-04：补记封瓶结算与推演上传结果
 
 - **目的 / 基线 / 前置**：补记2026-10-27-03；基于功能提交 `1b3756e`。
